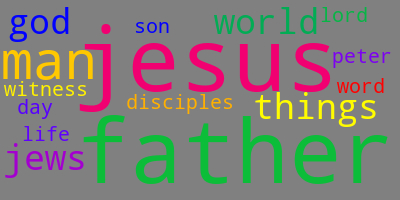
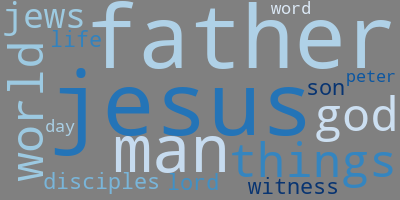
3.29.2021

diff --git a/NLP/nlp_assignment2.py b/NLP/nlp_assignment2.py
@@ -1,0 +1,40 @@
+from textblob import TextBlob
+import nltk
+from nltk.corpus import stopwords
+from pathlib import Path
+import pandas as pd
+from operator import itemgetter
+from wordcloud import WordCloud
+import imageio
+import matplotlib.pyplot as plt
+
+# READ BOOK OF JOHN IN
+text = Path("book of John text.txt").read_text()
+blob = TextBlob(text)
+
+# MAKE STOPS LIST
+stops = stopwords.words("english")
+more_stops = [
+    "thee",
+    "thy",
+    "thou",
+    "ye",
+    "therefore",
+    "verily",
+    "saith",
+    "hath",
+    "say",
+    "art",
+    "shall",
+]
+stops += more_stops
+
+# MAKE LIST OF ITEMS NOT IN STOPS
+items = blob.noun_phrases
+items = [item for item in items if item not in stops]
+
+# SORT THESE ITEMS
+sorted_items = sorted(items)
+sorted_items = sorted(items, key=itemgetter(1), reverse=True)
+top15 = sorted_items[:15]
+print(top15)

diff --git a/NLP/nlp_assignment.py b/NLP/nlp_assignment.py
@@ -4,7 +4,6 @@ import nltk
 from nltk.corpus import stopwords
 from pathlib import Path
 import pandas as pd
-from pathlib import Path
 from operator import itemgetter
 from wordcloud import WordCloud
 import imageio
@@ -63,7 +62,7 @@ for i in first_tuple_elements:
 print(top15str)
 
 # MAKE WORDCLOUD
-wordcloud = WordCloud(colormap="prism", background_color="gray")
+wordcloud = WordCloud(colormap="Blues", background_color="gray")
 wordcloud = wordcloud.generate(top15str)
 wordcloud = wordcloud.to_file("BookOfJohn.png")
 plt.imshow(wordcloud)
